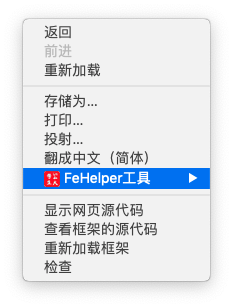
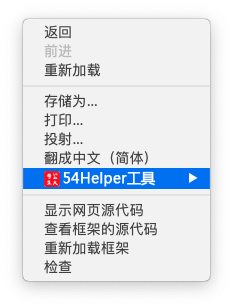
鼠标右键配置化

Changed region(s): [[0.2704, 0.5552, 0.691, 0.6136]]

diff --git a/apps/background/index.js b/apps/background/index.js
@@ -398,7 +398,7 @@ var BgPageInstance = (function () {
     let _createContextMenu = function () {
         _removeContextMenu();
         feHelper.contextMenuId = chrome.contextMenus.create({
-            title: "FeHelper工具",
+            title: "54Helper工具",
             contexts: ['page', 'selection', 'editable', 'link', 'image'],
             documentUrlPatterns: ['http://*/*', 'https://*/*', 'file://*/*']
         });
